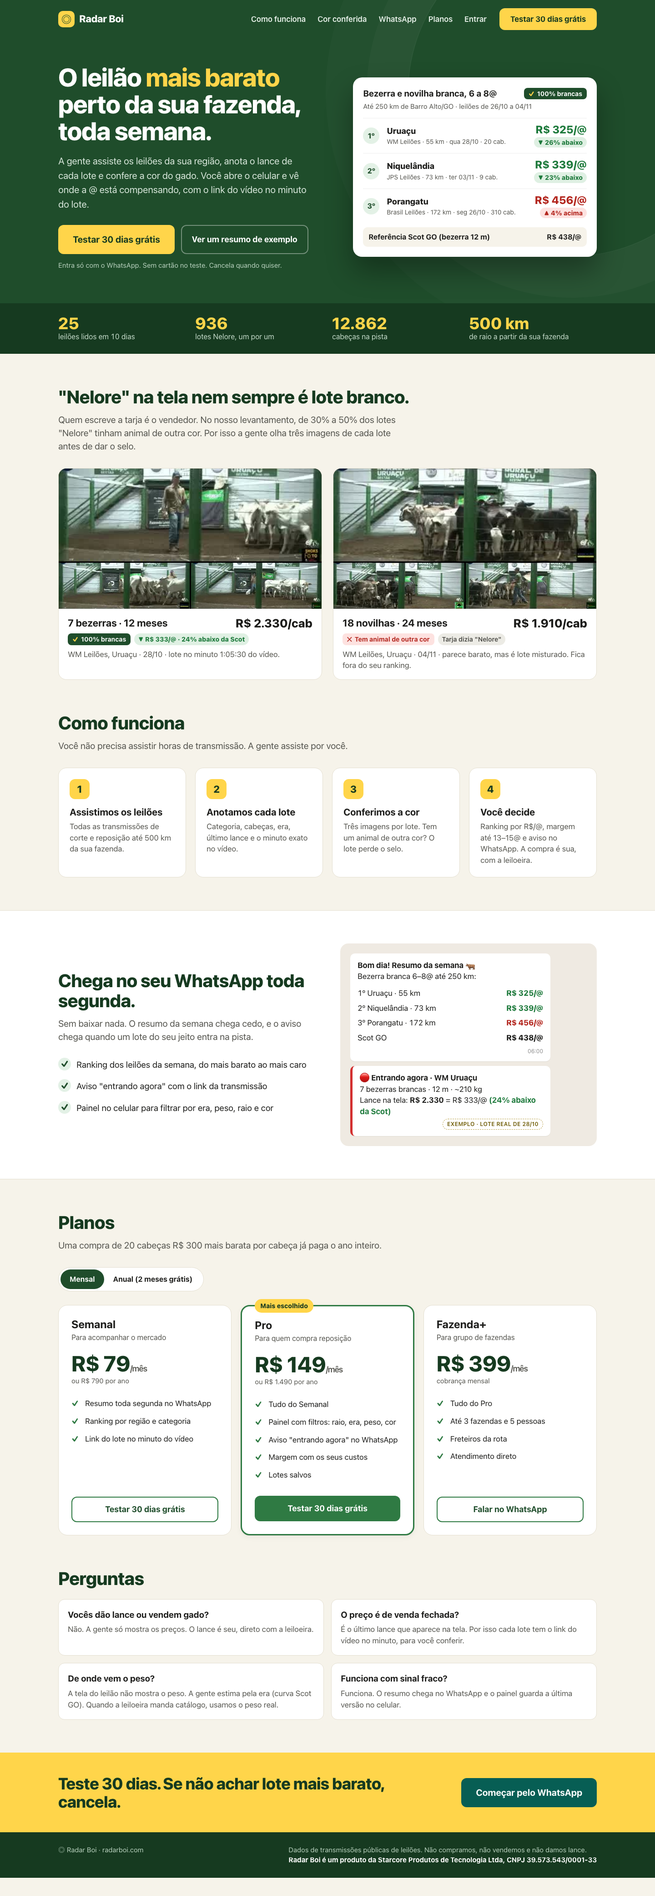
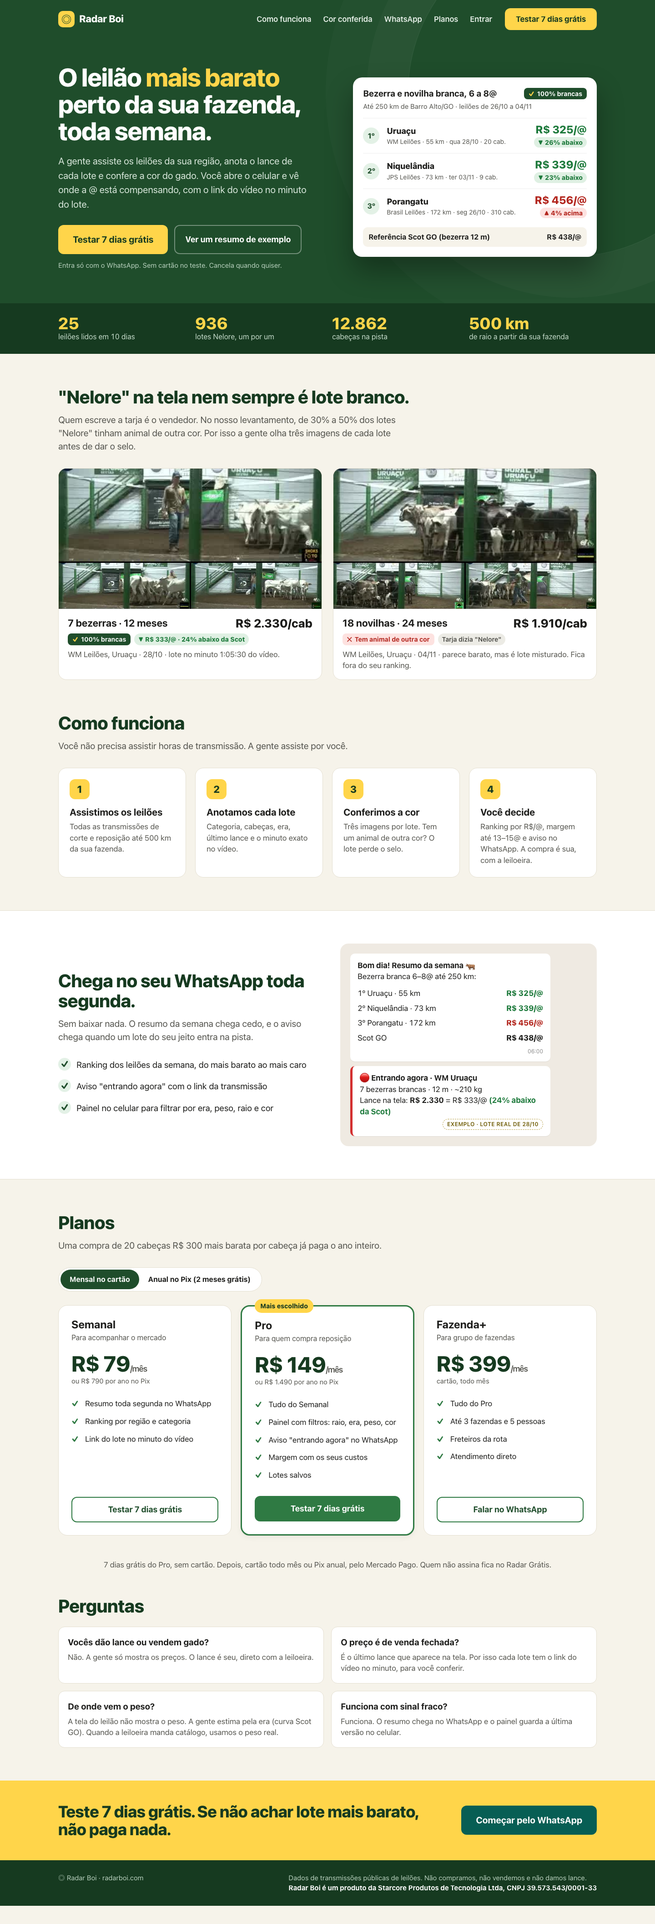
Teste de 7 dias (dia 6 = link de pagamento), Mercado Pago cartão mensal/Pix anual, Radar Grátis aprovado

diff --git a/docs/design/web/w01-landing.html b/docs/design/web/w01-landing.html
@@ -79,7 +79,7 @@ footer .in{max-width:1240px;margin:0 auto;padding:28px;display:flex;justify-cont
 <header class="lp-top"><div class="in">
   <a class="rb-logo claro" style="color:#fff"><i>◎</i>Radar Boi</a>
   <nav><a>Como funciona</a><a>Cor conferida</a><a>WhatsApp</a><a>Planos</a><a>Entrar</a></nav>
-  <a class="rb-btn rb-btn--amarelo" style="min-height:48px;font-size:17px">Testar 30 dias grátis</a>
+  <a class="rb-btn rb-btn--amarelo" style="min-height:48px;font-size:17px">Testar 7 dias grátis</a>
 </div></header>
 
 <section class="hero"><div class="in">
@@ -87,7 +87,7 @@ footer .in{max-width:1240px;margin:0 auto;padding:28px;display:flex;justify-cont
     <h1>O leilão <em>mais barato</em> perto da sua fazenda, toda semana.</h1>
     <p class="l">A gente assiste os leilões da sua região, anota o lance de cada lote e confere a cor do gado. Você abre o celular e vê onde a @ está compensando, com o link do vídeo no minuto do lote.</p>
     <div class="ctas">
-      <a class="rb-btn rb-btn--amarelo" style="font-size:20px;padding:0 30px;min-height:64px">Testar 30 dias grátis</a>
+      <a class="rb-btn rb-btn--amarelo" style="font-size:20px;padding:0 30px;min-height:64px">Testar 7 dias grátis</a>
       <a class="rb-btn" style="color:#fff;border-color:#ffffff60;min-height:64px">Ver um resumo de exemplo</a>
     </div>
     <div class="micro">Entra só com o WhatsApp. Sem cartão no teste. Cancela quando quiser.</div>
@@ -155,21 +155,22 @@ footer .in{max-width:1240px;margin:0 auto;padding:28px;display:flex;justify-cont
 <section class="sec" id="planos">
   <h2>Planos</h2>
   <p class="lead">Uma compra de 20 cabeças R$ 300 mais barata por cabeça já paga o ano inteiro.</p>
-  <div class="seg"><span class="on">Mensal</span><span>Anual (2 meses grátis)</span></div>
+  <div class="seg"><span class="on">Mensal no cartão</span><span>Anual no Pix (2 meses grátis)</span></div>
   <div class="planos">
-    <div class="plano"><h3>Semanal</h3><div class="q">Para acompanhar o mercado</div><div class="pr num">R$ 79<small>/mês</small></div><div class="an">ou R$ 790 por ano</div>
+    <div class="plano"><h3>Semanal</h3><div class="q">Para acompanhar o mercado</div><div class="pr num">R$ 79<small>/mês</small></div><div class="an">ou R$ 790 por ano no Pix</div>
       <ul><li>Resumo toda segunda no WhatsApp</li><li>Ranking por região e categoria</li><li>Link do lote no minuto do vídeo</li></ul>
-      <a class="rb-btn rb-btn--sec rb-btn--full">Testar 30 dias grátis</a></div>
-    <div class="plano dest"><span class="fita">Mais escolhido</span><h3>Pro</h3><div class="q">Para quem compra reposição</div><div class="pr num">R$ 149<small>/mês</small></div><div class="an">ou R$ 1.490 por ano</div>
+      <a class="rb-btn rb-btn--sec rb-btn--full">Testar 7 dias grátis</a></div>
+    <div class="plano dest"><span class="fita">Mais escolhido</span><h3>Pro</h3><div class="q">Para quem compra reposição</div><div class="pr num">R$ 149<small>/mês</small></div><div class="an">ou R$ 1.490 por ano no Pix</div>
       <ul><li>Tudo do Semanal</li><li>Painel com filtros: raio, era, peso, cor</li><li>Aviso "entrando agora" no WhatsApp</li><li>Margem com os seus custos</li><li>Lotes salvos</li></ul>
-      <a class="rb-btn rb-btn--pri rb-btn--full">Testar 30 dias grátis</a></div>
-    <div class="plano"><h3>Fazenda+</h3><div class="q">Para grupo de fazendas</div><div class="pr num">R$ 399<small>/mês</small></div><div class="an">cobrança mensal</div>
+      <a class="rb-btn rb-btn--pri rb-btn--full">Testar 7 dias grátis</a></div>
+    <div class="plano"><h3>Fazenda+</h3><div class="q">Para grupo de fazendas</div><div class="pr num">R$ 399<small>/mês</small></div><div class="an">cartão, todo mês</div>
       <ul><li>Tudo do Pro</li><li>Até 3 fazendas e 5 pessoas</li><li>Freteiros da rota</li><li>Atendimento direto</li></ul>
       <a class="rb-btn rb-btn--sec rb-btn--full">Falar no WhatsApp</a></div>
   </div>
 </section>
 
 <section class="sec" style="padding-top:0">
+  <p class="lead" style="text-align:center;margin:-20px auto 56px;max-width:none;font-size:17px">7 dias grátis do Pro, sem cartão. Depois, cartão todo mês ou Pix anual, pelo Mercado Pago. Quem não assina fica no Radar Grátis.</p>
   <h2>Perguntas</h2>
   <div class="faq" style="margin-top:24px">
     <div><b>Vocês dão lance ou vendem gado?</b><p>Não. A gente só mostra os preços. O lance é seu, direto com a leiloeira.</p></div>
@@ -179,6 +180,6 @@ footer .in{max-width:1240px;margin:0 auto;padding:28px;display:flex;justify-cont
   </div>
 </section>
 
-<section class="cta-f"><div class="sec"><h2>Teste 30 dias. Se não achar lote mais barato, cancela.</h2><a class="rb-btn rb-btn--wa" style="font-size:20px;padding:0 30px;min-height:64px">Começar pelo WhatsApp</a></div></section>
+<section class="cta-f"><div class="sec"><h2>Teste 7 dias grátis. Se não achar lote mais barato, não paga nada.</h2><a class="rb-btn rb-btn--wa" style="font-size:20px;padding:0 30px;min-height:64px">Começar pelo WhatsApp</a></div></section>
 <footer><div class="in"><span>◎ Radar Boi · radarboi.com</span><span>Dados de transmissões públicas de leilões. Não compramos, não vendemos e não damos lance.<br><b style="color:#fff">Radar Boi é um produto da Starcore Produtos de Tecnologia Ltda, CNPJ 39.573.543/0001-33</b></span></div></footer>
 </body></html>

diff --git a/docs/design/index.html b/docs/design/index.html
@@ -23,9 +23,9 @@ figcaption b{font-size:16px} figcaption span{color:var(--cinza)} figcaption em{f
 <div class="dec"><h3>Para o Gabriel decidir</h3><ol>
 <li><b>Número principal = R$/@ grande</b>, com R$/cab embaixo e o selo contra a Scot (barato ≤ −3%, caro ≥ +3%).</li>
 <li><b>“Só 100% brancas” ligado por padrão</b>: mostra 16 de 269 lotes. Os leilões sem conferência aparecem à parte, marcados “cor não conferida”.</li>
-<li><b>Teste de 30 dias do Pro sem cartão</b>, entrando só com o WhatsApp; no dia 25 a gente manda o link de pagamento (Pix recorrente).</li>
+<li><b>Teste de 7 dias do Pro sem cartão</b> ✅ aprovado. Entra só com o WhatsApp; no dia 6 a gente manda o link do Mercado Pago (cartão todo mês ou Pix anual). Quem não paga cai no Radar Grátis.</li>
 </ol></div>
-<section><h2>Novo · Radar Grátis (proposta do CEO, aguarda OK) · web <small>4 telas</small></h2><div class="g gw"><figure class="w"><a href="web/w10-teste-acabou.html"><img loading="lazy" src="png/w10-teste-acabou.png" alt="Seu teste acabou"></a>
+<section><h2>Novo · Radar Grátis (✅ aprovado) · web <small>4 telas</small></h2><div class="g gw"><figure class="w"><a href="web/w10-teste-acabou.html"><img loading="lazy" src="png/w10-teste-acabou.png" alt="Seu teste acabou"></a>
 <figcaption><b>Seu teste acabou</b><span>Escolha de plano, nada é apagado, “você perdeu”</span><em><a href="web/w10-teste-acabou.html">HTML</a> · <a href="png/w10-teste-acabou.png">PNG</a></em></figcaption></figure><figure class="w"><a href="web/w11-painel-gratis.html"><img loading="lazy" src="png/w11-painel-gratis.png" alt="Ranking no Radar Grátis"></a>
 <figcaption><b>Ranking no Radar Grátis</b><span>7 dias de atraso, sem filtro de peso e cor</span><em><a href="web/w11-painel-gratis.html">HTML</a> · <a href="png/w11-painel-gratis.png">PNG</a></em></figcaption></figure><figure class="w"><a href="web/w12-bloqueios.html"><img loading="lazy" src="png/w12-bloqueios.png" alt="Como fica cada tela bloqueada"></a>
 <figcaption><b>Como fica cada tela bloqueada</b><span>Cadeado e “assine para ver” em lotes, lote, alertas, agenda, conta</span><em><a href="web/w12-bloqueios.html">HTML</a> · <a href="png/w12-bloqueios.png">PNG</a></em></figcaption></figure><figure class="w"><a href="web/w13-indique.html"><img loading="lazy" src="png/w13-indique.png" alt="Indique e ganhe"></a>
@@ -34,7 +34,7 @@ figcaption b{font-size:16px} figcaption span{color:var(--cinza)} figcaption em{f
 <figcaption><b>Lotes bloqueados</b><span>Conta grátis</span><em><a href="app/a14-lotes-gratis.html">HTML</a> · <a href="png/a14-lotes-gratis.png">PNG</a></em></figcaption></figure><figure class="m"><a href="app/a15-indique.html"><img loading="lazy" src="png/a15-indique.png" alt="Indique e ganhe"></a>
 <figcaption><b>Indique e ganhe</b><em><a href="app/a15-indique.html">HTML</a> · <a href="png/a15-indique.png">PNG</a></em></figcaption></figure><figure class="m"><a href="whatsapp/z03-resumo-gratis.html"><img loading="lazy" src="png/z03-resumo-gratis.png" alt="Resumo de segunda grátis"></a>
 <figcaption><b>Resumo de segunda grátis</b><span>3 cidades e R$/@ + você perdeu</span><em><a href="whatsapp/z03-resumo-gratis.html">HTML</a> · <a href="png/z03-resumo-gratis.png">PNG</a></em></figcaption></figure></div></section><section><h2>Web · painel (A) <small>9 telas</small></h2><div class="g gw"><figure class="w"><a href="web/w01-landing.html"><img loading="lazy" src="png/w01-landing.png" alt="Landing de vendas"></a>
-<figcaption><b>Landing de vendas</b><span>Planos e “testar 30 dias grátis”</span><em><a href="web/w01-landing.html">HTML</a> · <a href="png/w01-landing.png">PNG</a></em></figcaption></figure><figure class="w"><a href="web/w02-entrar.html"><img loading="lazy" src="png/w02-entrar.png" alt="Entrar pelo WhatsApp"></a>
+<figcaption><b>Landing de vendas</b><span>Planos e “testar 7 dias grátis”</span><em><a href="web/w01-landing.html">HTML</a> · <a href="png/w01-landing.png">PNG</a></em></figcaption></figure><figure class="w"><a href="web/w02-entrar.html"><img loading="lazy" src="png/w02-entrar.png" alt="Entrar pelo WhatsApp"></a>
 <figcaption><b>Entrar pelo WhatsApp</b><span>Número + código de 6 dígitos</span><em><a href="web/w02-entrar.html">HTML</a> · <a href="png/w02-entrar.png">PNG</a></em></figcaption></figure><figure class="w"><a href="web/w03-onboarding.html"><img loading="lazy" src="png/w03-onboarding.png" alt="Onboarding"></a>
 <figcaption><b>Onboarding</b><span>Fazenda, o que compra, raio e cor</span><em><a href="web/w03-onboarding.html">HTML</a> · <a href="png/w03-onboarding.png">PNG</a></em></figcaption></figure><figure class="w"><a href="web/w04-painel.html"><img loading="lazy" src="png/w04-painel.png" alt="Ranking de leilões"></a>
 <figcaption><b>Ranking de leilões</b><span>Painel principal, do mais barato ao mais caro</span><em><a href="web/w04-painel.html">HTML</a> · <a href="png/w04-painel.png">PNG</a></em></figcaption></figure><figure class="w"><a href="web/w05-lotes.html"><img loading="lazy" src="png/w05-lotes.png" alt="Lotes com filtros"></a>

diff --git a/docs/design/web/w09-conta.html b/docs/design/web/w09-conta.html
@@ -24,8 +24,9 @@
 </style></head>
 <body>
 <!-- Tela W09 · Conta e planos. Perfil, fazendas, filtro padrão, custos de recria (usados na margem do W06) e assinatura.
-     Teste grátis: 30 dias do Pro sem cartão. No dia 25, mensagem no WhatsApp com link de pagamento (Pix recorrente ou cartão).
-     Se não pagar: volta para o plano gratuito "só resumo de segunda" por mais 30 dias, depois encerra (decisão a aprovar).
+     Teste grátis: 7 dias do Pro sem cartão (aprovado). No dia 6, mensagem no WhatsApp com o link de pagamento do Mercado Pago.
+     Cobrança: cartão de crédito todo mês (assinatura) ou Pix anual (pagamento único, 2 meses grátis). Fazenda+: só cartão mensal.
+     Se não pagar: cai no Radar Grátis (W10/W11), sem perder fazenda, filtros e salvos (aprovado).
      Cancelar: 1 clique + 1 pergunta opcional de motivo. Sem ligação, sem retenção forçada. -->
 <header class="w-top"><div class="in">
   <span class="rb-logo claro" style="color:#fff"><i>◎</i>Radar Boi</span>
@@ -58,17 +59,17 @@
       </div>
     </div>
     <div>
-      <div class="teste"><div><h2>Teste grátis do Pro</h2><p>Termina em 30/11 <span class="rb-tag rb-tag--exemplo" style="background:transparent">exemplo</span>. Sem cartão cadastrado. No dia 25 a gente manda o link de pagamento no WhatsApp.</p></div><div class="dias num">25<small>dias restantes</small></div></div>
+      <div class="teste"><div><h2>Teste grátis do Pro</h2><p>Termina em 11/11 <span class="rb-tag rb-tag--exemplo" style="background:transparent">exemplo</span>. Sem cartão cadastrado. No dia 6 a gente manda o link de pagamento no WhatsApp.</p></div><div class="dias num">6<small>dias restantes</small></div></div>
       <div class="w-card"><h2>Planos</h2>
         <div class="pl">
           <div><b>Semanal</b><div class="p num">R$ 79<small>/mês</small></div><ul><li>Resumo de segunda</li><li>Ranking</li><li>Link do vídeo</li></ul></div>
           <div class="on"><b>Pro ✓</b><div class="p num">R$ 149<small>/mês</small></div><ul><li>Painel e filtros</li><li>Aviso entrando agora</li><li>Margem com seus custos</li></ul></div>
           <div><b>Fazenda+</b><div class="p num">R$ 399<small>/mês</small></div><ul><li>3 fazendas, 5 pessoas</li><li>Freteiros da rota</li><li>Atendimento direto</li></ul></div>
         </div>
-        <div class="li" style="margin-top:14px"><span>Pagar por ano</span><b>R$ 1.490 no Pro · 2 meses grátis</b></div>
+        <div class="li" style="margin-top:14px"><span>Pagar por ano no Pix</span><b>R$ 1.490 no Pro · 2 meses grátis</b></div>
         <h2 style="margin-top:16px">Como pagar</h2>
-        <div class="pag"><div class="rb-opcao is-on"><span class="box"></span><div>Pix recorrente<small>autoriza uma vez no app do banco</small></div></div><div class="rb-opcao"><span class="box"></span><div>Cartão de crédito<small>cobrança todo mês</small></div></div></div>
-        <div style="margin-top:16px"><a class="rb-btn rb-btn--pri rb-btn--full">Assinar o Pro por R$ 149/mês</a></div>
+        <div class="pag"><div class="rb-opcao is-on"><span class="box"></span><div>Cartão de crédito<small>R$ 149 todo mês · cancela quando quiser</small></div></div><div class="rb-opcao"><span class="box"></span><div>Pix anual<small>R$ 1.490 de uma vez · 2 meses grátis</small></div></div></div>
+        <div style="margin-top:16px"><a class="rb-btn rb-btn--pri rb-btn--full">Assinar o Pro por R$ 149/mês</a><div class="muted small" style="text-align:center;margin-top:8px">Pagamento pelo Mercado Pago</div></div>
       </div>
       <div class="w-card"><h2>Ajuda</h2>
         <div class="li"><span>Falar com a gente</span><b><a>WhatsApp</a></b></div>

diff --git a/docs/design/web/w10-teste-acabou.html b/docs/design/web/w10-teste-acabou.html
@@ -28,10 +28,10 @@
 .pag{display:flex;align-items:center;gap:14px;margin-top:22px;background:#fff;border:1px solid var(--areia);border-radius:16px;padding:16px 20px;font-size:16px}
 </style></head>
 <body>
-<!-- W10 · Seu teste acabou. Plano Radar Grátis: PROPOSTA DO CEO, AGUARDANDO OK DO GABRIEL.
+<!-- W10 · Seu teste acabou. Plano Radar Grátis: APROVADO pelo Gabriel. Cobrança Mercado Pago: cartão mensal ou Pix anual.
      Aparece no 1º acesso depois do fim do teste de 7 dias (e é o destino do link do WhatsApp do dia 7).
      Padrão pré-selecionado: Pro (o que a pessoa usou). Se fechar a tela ou tocar em "Ficar no Radar Grátis", a conta vira status gratuita:
-     NADA é apagado (fazenda, filtros, salvos, custos). Assinar = 1 toque: Pix recorrente já autorizado ou cartão; os filtros voltam como estavam.
+     NADA é apagado (fazenda, filtros, salvos, custos). Assinar = 1 toque: link do Mercado Pago (cartão todo mês ou Pix anual); os filtros voltam como estavam.
      Números de "nos seus 7 dias" vêm da conta (aqui: exemplo). O bloco "você perdeu" usa o melhor lote real da semana que passou no filtro dela. -->
 <header class="w-top"><div class="in">
   <span class="rb-logo claro" style="color:#fff"><i>◎</i>Radar Boi</span>
@@ -63,7 +63,7 @@
     <ul><li>3 fazendas e 5 pessoas</li><li>Freteiros da rota</li><li>Atendimento direto</li><li>Tudo do Pro</li></ul>
     <a class="rb-btn rb-btn--sec rb-btn--full">Falar com a gente</a></div>
 </div>
-<div class="pag">💳 <span><b>Pix recorrente</b> (autoriza uma vez no app do banco) ou <b>cartão</b>. Cancela quando quiser, sem ligação.</span><span style="margin-left:auto">🎁 Ou <a><b>indique 1 fazendeiro</b></a> que assine e ganhe 1 mês de Pro.</span></div>
+<div class="pag">💳 <span><b>Cartão</b> todo mês ou <b>Pix anual</b> (2 meses grátis), pelo Mercado Pago. Cancela quando quiser, sem ligação.</span><span style="margin-left:auto">🎁 Ou <a><b>indique 1 fazendeiro</b></a> que assine e ganhe 1 mês de Pro.</span></div>
 <div class="cmp"><table>
 <tr><th>O que muda</th><th>Radar Grátis</th><th>Pro</th></tr>
 <tr><td>Resumo de segunda no WhatsApp</td><td>3 primeiras cidades e R$/@</td><td>Completo, com leilão, lote e margem</td></tr>

diff --git a/docs/design/web/w02-entrar.html b/docs/design/web/w02-entrar.html
@@ -43,7 +43,7 @@ body{background:var(--verde-800)}
           <span class="ajuda">Exemplo: (62) 9 8123-4567</span>
         </label>
         <div style="margin-top:26px"><a class="rb-btn rb-btn--wa rb-btn--full" style="font-size:20px">Receber código no WhatsApp</a></div>
-        <div class="leg">Primeira vez? Você ganha <b>30 dias grátis do plano Pro</b>, sem cartão. Ao continuar você aceita os <a>termos de uso</a> e a <a>política de privacidade</a>.</div>
+        <div class="leg">Primeira vez? Você ganha <b>7 dias grátis do plano Pro</b>, sem cartão. Ao continuar você aceita os <a>termos de uso</a> e a <a>política de privacidade</a>.</div>
       </div>
     </div>
     <div>
@@ -58,7 +58,7 @@ body{background:var(--verde-800)}
       </div>
     </div>
   </div>
-  <div class="nota"><span><b>Por que WhatsApp?</b> É onde chegam o resumo de segunda e os avisos de lote.</span><span><b>Sem cartão no teste.</b> No dia 25 a gente pergunta se quer continuar.</span></div>
+  <div class="nota"><span><b>Por que WhatsApp?</b> É onde chegam o resumo de segunda e os avisos de lote.</span><span><b>Sem cartão no teste.</b> No dia 6 a gente manda o link de pagamento.</span></div>
 </div>
 <footer class="rb-rodape rb-rodape--escuro">Dados de transmissões públicas de leilões. Não compramos, não vendemos e não damos lance.<br><b>Radar Boi é um produto da Starcore Produtos de Tecnologia Ltda, CNPJ 39.573.543/0001-33</b></footer>
 </body></html>

diff --git a/docs/design/web/w13-indique.html b/docs/design/web/w13-indique.html
@@ -17,11 +17,11 @@
 .ind .it{display:flex;justify-content:space-between;align-items:center;padding:12px 0;border-top:1px solid #eee;font-size:16px}
 </style></head>
 <body>
-<!-- W13 · Indique e ganhe 1 mês de Pro. Plano Radar Grátis: PROPOSTA DO CEO, AGUARDANDO OK DO GABRIEL.
+<!-- W13 · Indique e ganhe 1 mês de Pro. Plano Radar Grátis: APROVADO pelo Gabriel. Cobrança Mercado Pago: cartão mensal ou Pix anual.
      Link pessoal radarboi.com/i/{codigo}. Quem entra pelo link ganha o teste normal de 7 dias.
-     Recompensa: quando o indicado paga a 1ª mensalidade (qualquer plano pago), quem indicou ganha 1 mês de Pro (no grátis: vira Pro por 30 dias;
+     Recompensa: quando o indicado paga a 1ª mensalidade (qualquer plano pago), quem indicou ganha 1 mês de Pro (no grátis: vira Pro por 1 mês;
      no pago: 1 mensalidade a menos). Sem limite. Aviso no WhatsApp para os dois. Antifraude: mesmo CPF/telefone não conta; pagamento estornado cancela o prêmio.
-     Regras de prêmio = proposta, aguardam OK do Gabriel. -->
+     Regras aprovadas pelo Gabriel. -->
 <header class="w-top"><div class="in">
   <span class="rb-logo claro" style="color:#fff"><i>◎</i>Radar Boi</span>
   <nav><a class="">Ranking</a><a class="">Lotes 🔒</a><a class="">Agenda</a><a class="">Alertas 🔒</a><a class="is-on">Conta</a></nav><span class="rb-plano rb-plano--gratis">Radar Grátis</span>

diff --git a/docs/design/componentes.html b/docs/design/componentes.html
@@ -62,7 +62,7 @@
   </section>
 
   <section class="sec"><h2>Botão <code>Botao</code></h2><p>Altura mínima 48 px (56 px no principal). Um botão principal por tela. Texto sempre com verbo: "Ver no vídeo", "Assistir agora".</p>
-    <div class="row"><a class="rb-btn rb-btn--pri">▶ Ver no vídeo</a><a class="rb-btn rb-btn--sec">☆ Salvar</a><a class="rb-btn rb-btn--amarelo">Testar 30 dias grátis</a><a class="rb-btn rb-btn--wa">Receber código no WhatsApp</a><a class="rb-btn rb-btn--pri" style="background:var(--aovivo)">▶ Assistir agora</a><a class="rb-btn rb-btn--txt">Ver tudo →</a><a class="rb-btn rb-btn--pri is-disabled">Entrar</a></div>
+    <div class="row"><a class="rb-btn rb-btn--pri">▶ Ver no vídeo</a><a class="rb-btn rb-btn--sec">☆ Salvar</a><a class="rb-btn rb-btn--amarelo">Testar 7 dias grátis</a><a class="rb-btn rb-btn--wa">Receber código no WhatsApp</a><a class="rb-btn rb-btn--pri" style="background:var(--aovivo)">▶ Assistir agora</a><a class="rb-btn rb-btn--txt">Ver tudo →</a><a class="rb-btn rb-btn--pri is-disabled">Entrar</a></div>
   </section>
 
   <section class="sec"><h2>Chip de filtro <code>ChipFiltro</code> · Selo de cor <code>SeloCor</code> · Badge vs Scot <code>BadgeScot</code></h2>

diff --git a/docs/index.html b/docs/index.html
@@ -73,7 +73,8 @@
     <div class="card dest"><h3>Pro</h3><div class="preco">R$ 149<span>/mês</span></div><ul><li>Tudo do Semanal</li><li>Painel com filtros (raio, peso, cor)</li><li>Alerta de lote barato antes do leilão</li><li>Margem com os seus custos</li></ul></div>
     <div class="card"><h3>Fazenda+</h3><div class="preco">R$ 399<span>/mês</span></div><ul><li>Tudo do Pro</li><li>Até 3 fazendas / 5 usuários</li><li>Freteiros da rota</li><li>Atendimento direto</li></ul></div>
   </div>
-  <p class="cta"><a class="btn" id="btnWa" href="#">Quero testar 30 dias grátis</a></p>
+  <p class="pg">Teste de 7 dias grátis do Pro, sem cartão. Depois: cartão todo mês ou Pix anual (R$ 790 no Semanal, R$ 1.490 no Pro), pelo Mercado Pago. Quem não assina fica no Radar Grátis.</p>
+  <p class="cta"><a class="btn" id="btnWa" href="#">Quero testar 7 dias grátis</a></p>
 </section>
 
 <footer>Radar Boi · dados de transmissões públicas de leilões · não compramos nem vendemos gado e não damos lance por você.<br>Radar Boi é um produto da Starcore Produtos de Tecnologia Ltda, CNPJ 39.573.543/0001-33</footer>

diff --git a/docs/design/web/w11-painel-gratis.html b/docs/design/web/w11-painel-gratis.html
@@ -21,7 +21,7 @@ table.rk{width:100%;border-collapse:collapse;background:#fff;border:1px solid va
 .cont{display:flex;gap:6px;margin:8px 0 12px}.cont i{flex:1;height:10px;border-radius:5px;background:var(--verde-600)}
 </style></head>
 <body>
-<!-- W11 · Painel no Radar Grátis. Plano Radar Grátis: PROPOSTA DO CEO, AGUARDANDO OK DO GABRIEL.
+<!-- W11 · Painel no Radar Grátis. Plano Radar Grátis: APROVADO pelo Gabriel. Cobrança Mercado Pago: cartão mensal ou Pix anual.
      Mesmo W04, em modo consulta: dados com 7 dias de atraso (corte = hoje − 7 dias; aqui hoje = seg 09/11 → leilões até 02/11).
      Sem filtro de peso e cor: o recorte é fixo em fêmeas (ou machos, conforme o perfil), todas as eras e cores, no raio da fazenda.
      Bloqueado (rb-cadeado / rb-chip.is-bloq): lotes, comparação com a Scot, margem, filtros de peso e cor, PDF. Clique em qualquer 🔒 abre W10.

diff --git a/docs/style.css b/docs/style.css
@@ -19,5 +19,6 @@ td.n,th.n{text-align:right}tr:nth-child(even) td{background:#fafaf7}.bom{color:v
 .como ol{padding-left:20px}.como li{margin:6px 0}
 .cards{display:grid;grid-template-columns:repeat(auto-fit,minmax(230px,1fr));gap:14px}.card{border:1px solid #e4dfd0;border-radius:12px;padding:16px}.card.dest{border:2px solid var(--v2)}.card h3{margin:0}.preco{font-size:28px;font-weight:800;color:var(--v);margin:6px 0}.preco span{font-size:14px;color:var(--m);font-weight:400}
 .cta{text-align:center;margin-top:20px}.btn{background:var(--v2);color:#fff;padding:12px 22px;border-radius:30px;text-decoration:none;font-weight:700}
+.planos .pg{text-align:center;color:#555;font-size:14px;margin:14px auto 0;max-width:640px}
 footer{background:var(--v);color:#dfe9e1;font-size:12px;padding:16px 20px;text-align:center}
 @media(max-width:600px){.hero h1{font-size:22px}.top nav{display:none}}

diff --git a/docs/app.js b/docs/app.js
@@ -30,7 +30,7 @@ function init() {
       f.add(new Option('Minha localização', FAZENDAS.length - 1), f.options.length - 1); f.value = FAZENDAS.length - 1; render();
     });
   });
-  $('#btnWa').href = `https://wa.me/${WA}?text=${encodeURIComponent('Quero testar o Radar Boi por 30 dias')}`;
+  $('#btnWa').href = `https://wa.me/${WA}?text=${encodeURIComponent('Quero testar o Radar Boi por 7 dias')}`;
   $('#fonteVenda').textContent = `Venda: ${DB.gorda.fonte}, R$ ${DB.gorda.rs_arroba.toLocaleString('pt-BR')}/@ (${DB.gorda.data}). Atualizado em ${DB.atualizado.split('-').reverse().join('/')}.`;
   const conf = DB.leiloes.filter(l => l.rev).length;
   $('#heroNums').innerHTML = `<div><b>${DB.leiloes.length}</b>leilões lidos</div><div><b>${DB.lotes.length}</b>lotes Nelore</div><div><b>${conf}</b>leilões com cor conferida</div><div><b>500 km</b>de raio</div>`;

diff --git a/docs/design/app/a13-teste-acabou.html b/docs/design/app/a13-teste-acabou.html
@@ -27,7 +27,7 @@
   <div class="op"><span class="rd"></span><div><b>Radar Grátis</b><small>3 cidades no resumo, painel 7 dias atrasado, 1 alerta/mês</small></div><div class="p">R$ 0</div></div>
   <div style="text-align:center;font-size:15px;margin-top:6px">🎁 <a><b>Indique 1 fazendeiro</b></a> e ganhe 1 mês de Pro</div>
 </div>
-<div class="bt"><a class="rb-btn rb-btn--pri rb-btn--full" style="font-size:20px">Continuar no Pro</a><div class="muted" style="text-align:center;font-size:13px;margin-top:8px">Pix recorrente ou cartão · cancela quando quiser</div></div>
+<div class="bt"><a class="rb-btn rb-btn--pri rb-btn--full" style="font-size:20px">Continuar no Pro</a><div class="muted" style="text-align:center;font-size:13px;margin-top:8px">Cartão todo mês ou Pix anual · Mercado Pago</div></div>
 
 <span class="home-ind"></span>
 </div>
